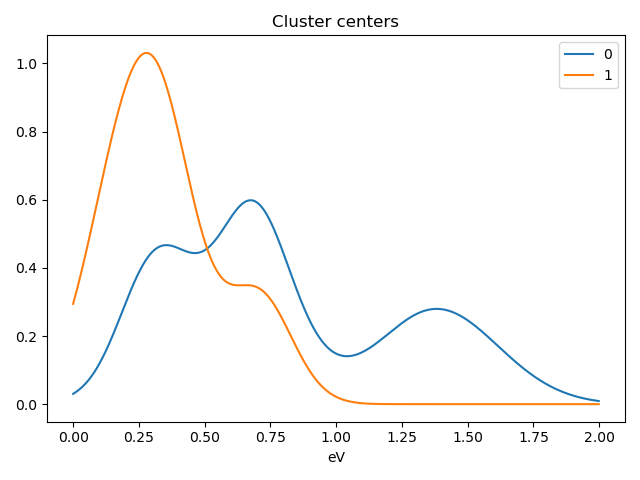
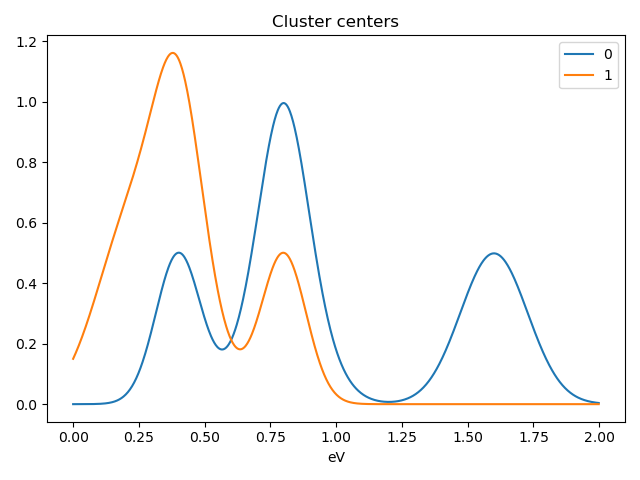
make example 2 more interesting

diff --git a/doc/user_guide/cluster.rst b/doc/user_guide/cluster.rst
@@ -84,7 +84,7 @@ For example:
 
 .. code-block:: python
 
-    >>> s.cluster_analysis(cluster_source="signal", n_clusters=3, algorithm="kmeans", n_init=8)
+    >>> s.cluster_analysis(cluster_source="signal", n_clusters=3, scaling="norm", algorithm="kmeans", n_init=8)
 
 is equivalent to:
 
@@ -356,12 +356,13 @@ Let's start by creating a suitable synthetic dataset.
     >>> m = s_dummy.create_model()
     >>> m.append(hs.model.components1D.GaussianHF(fwhm=0.2))
     >>> m.append(hs.model.components1D.GaussianHF(fwhm=0.3))
-    >>> m.components.GaussianHF.centre.map["values"][:32, :] = .3 + .1 * np.random.normal(size=(32, 64))
-    >>> m.components.GaussianHF.centre.map["values"][32:, :] = .7 + .1 * np.random.normal(size=(32, 64))
+    >>> m.components.GaussianHF.centre.map["values"][:32, :] = .3 + .1
+    >>> m.components.GaussianHF.centre.map["values"][32:, :] = .7 + .1
     >>> m.components.GaussianHF_0.centre.map["values"][:, 32:] = m.components.GaussianHF.centre.map["values"][:, 32:] * 2
     >>> m.components.GaussianHF_0.centre.map["values"][:, :32] = m.components.GaussianHF.centre.map["values"][:, :32] * 0.5
     >>> for component in m:
     ...     component.centre.map["is_set"][:] = True
+    ...     component.centre.map["values"][:] += np.random.normal(size=(64, 64)) * 0.01
     >>> s = m.as_signal()
     >>> stack = hs.stack([m.components.GaussianHF.centre.as_signal(),
     >>> hs.plot.plot_images(stack, axes_decor="off", colorbar="single",
@@ -376,7 +377,11 @@ need to fit the model first.
 
 .. code-block:: python
 
-    >>> stack = hs.stack([m.components.GaussianHF.centre.as_signal(), m.components.GaussianHF_0.centre.as_signal()])s.cluster_analysis(cluster_source=stack.T, source_for_centers=s, n_clusters=2)
+    >>> stack = hs.stack([m.components.GaussianHF.centre.as_signal(),
+    m.components.GaussianHF_0.centre.as_signal()])
+    >>> s.estimate_number_of_clusters(cluster_source=stack.T, scaling="norm")
+    2
+    >>> s.cluster_analysis(cluster_source=stack.T, source_for_centers=s, n_clusters=2, scaling="norm")
     >>> s.plot_cluster_labels()
 
 .. image:: images/clustering_gaussian_centres_labels.png
